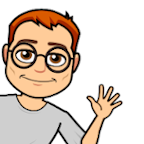
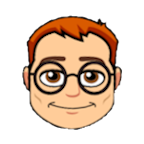
style: update pwa pics to contain transparent background

diff --git a/service-worker.js b/service-worker.js
@@ -5,7 +5,7 @@ const FILES_TO_CACHE = [
     '/blog/post/loading-icon-button-tutorial.html'
 ]
 
-const CACHE_NAME = '50'
+const CACHE_NAME = '1'
 
 self.addEventListener('install', event => {
     event.waitUntil(
